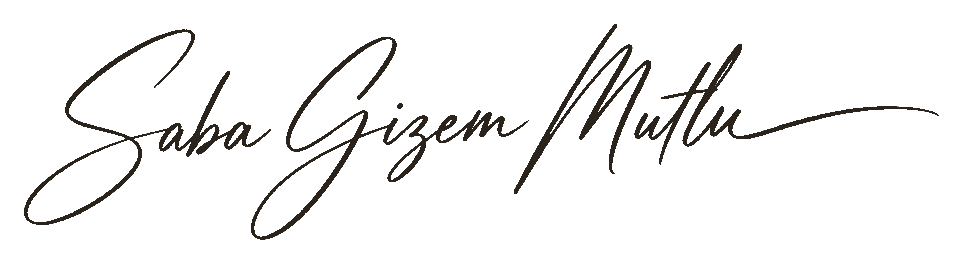
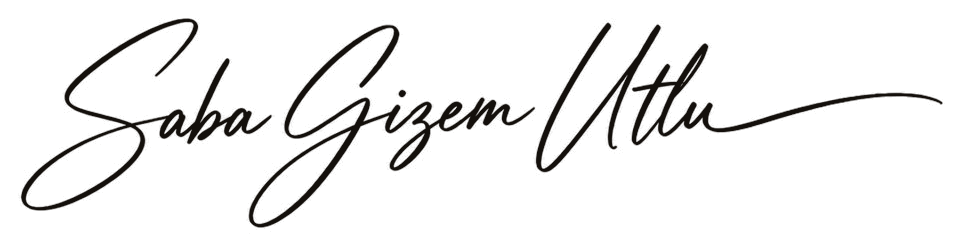
Kurucu bölümündeki imzayı Saba Gizem Utlu olarak güncelle.

Changed region(s): [[0.0, 0.0556, 0.9969, 0.9167]]

diff --git a/src/components/Founder.tsx b/src/components/Founder.tsx
@@ -17,7 +17,7 @@ export function Founder() {
             “İyileşmek gürültülü olmak zorunda değil. Bazen yalnızca doğru ışık,
             doğru kelime ve doğru tempo yeter.”
           </p>
-          <img className="sign" src="/images/imza-ink.png" alt="Saba Gizem Mutlu" />
+          <img className="sign" src="/images/imza-ink.png" alt="Saba Gizem Utlu" />
           <div className="founder-points">
             <article>
               <h3>Bilinçli eğitimler</h3>
